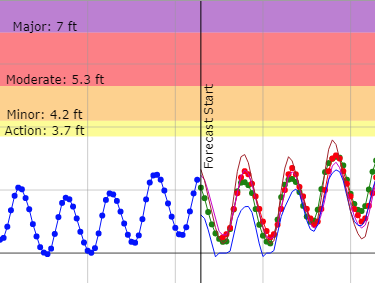
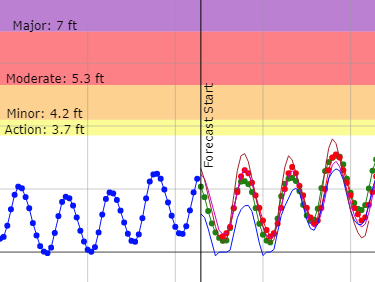
update code now that there is no water_level_2 column

diff --git a/public/map/map.js b/public/map/map.js
@@ -2049,7 +2049,7 @@ function makePlotStationWater(url, domNode, title, marker) {
                     name: 'IoT Sensor',
                     hoverinfo: "y",
                     x: unpack(rows, 'date'),
-                    y: unpack(rows, 'water_level_2'), //sensor 2 is the good one
+                    y: unpack(rows, 'water_level'),
                     line: {
                         color: '#44cbcb',
                         width: 1
@@ -2063,27 +2063,6 @@ function makePlotStationWater(url, domNode, title, marker) {
                 };
                 Plotly.addTraces(domNode, sensorObservation);
             });
-            // Plotly.d3.csv(dataDomain + "/IOT/hobo1/running.csv?v="+Math.round(Math.random()*100000000).toString(), function (err, rows) {
-            //     let sensorObservation = {
-            //         type: "scatter",
-            //         mode: 'lines+markers',
-            //         name: 'HOBO Sensor',
-            //         hoverinfo: "y",
-            //         x: unpack(rows, 'date'),
-            //         y: unpack(rows, 'water_level'), //sensor 2 is the good one
-            //         line: {
-            //             color: '#44cb00',
-            //             width: 1
-            //         },
-            //         marker: {
-            //             color: '#44cb00',
-            //             width: 0.25
-            //         },
-            //         xaxis: 'x1',
-            //         yaxis: 'y1'
-            //     };
-            //     Plotly.addTraces(domNode, sensorObservation);
-            // });
         }
         //if this station has NOAA observation data we'll load that too
         if (marker["agency"] === "NOAA" && typeof noaaId !== 'undefined') {
@@ -2528,7 +2507,7 @@ function makePlotStationRealtimeValidation(url, domNode, title, marker) {
                 let ifloodDates = unpack(rows, 'iflood_date');
                 let ifloodValues = unpack(rows, 'iflood');
                 let iotDates = unpack(iotRows, 'date');
-                let iotValues = unpack(iotRows, 'water_level_2');
+                let iotValues = unpack(iotRows, 'water_level');
                 let comparisonDates = [];
                 let comparisonValues = [];
                 for (let i = 0; i < ifloodDates.length; i++) {

diff --git a/lambda/ifloodMayflyIngest.py b/lambda/ifloodMayflyIngest.py
@@ -10,7 +10,7 @@ def lambda_handler(event, context):
     sensorId = event["body"].split("\n")[0]
     timestamp = datetime.datetime.today().strftime('%Y%m%d%H')
     data = "\n".join(event["body"].split("\n")[1:])
-    fileBody = "date,water_level_1,water_level_2\n" + data
+    fileBody = "date,water_level\n" + data
     s3.put_object(
         Body=fileBody,
         Bucket="gmu-iflood-data",
@@ -40,7 +40,7 @@ def lambda_handler(event, context):
             Key="IOT/" + sensorId + "/" + id + ".csv",
         )
         runningData = "\n".join(objResponse['Body'].read().decode('utf-8').split("\n")[1:]) + runningData  # prepend all the lines except the header
-    runningBody = "date,water_level_1,water_level_2\n" + runningData
+    runningBody = "date,water_level\n" + runningData
     s3.put_object(
         Body=runningBody,
         Bucket="gmu-iflood-data",
